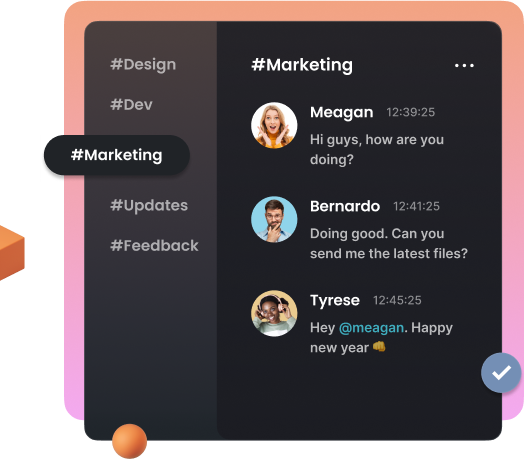
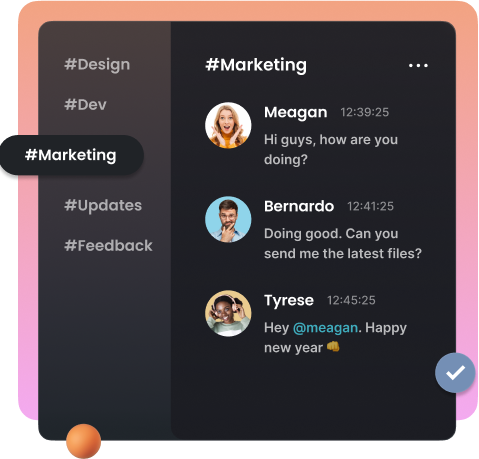
section feature

diff --git a/src/stylesheets/pages/home/_feature.scss b/src/stylesheets/pages/home/_feature.scss
@@ -1,0 +1,77 @@
+@use "../../abstracts/"as *;
+
+.feature{
+    @include flex($direction:column,$justify:center,$align:center);
+    gap: 20px;
+    text-align: center;
+    padding: 10% 0 0 0;
+    width: 100%;
+    @include tablet{
+        gap: 80px;
+    }
+    @include desktop{
+        padding-top: 3%;
+        gap: 80px;
+    }
+    &__content{
+        width: 100%;
+        @include flex($direction:column,$align:center);
+        gap: 20px;
+      &-firstline{
+        @include font($font-family:$secondary-font,$font-size:pxToRem(12),$font-weight:800,$line-height:16px);
+        @include color($color:$text-color-extra);
+        letter-spacing: 1.2px;
+        text-transform: uppercase;
+      }
+      &-secondline{
+        @include font($font-family:$third-font,$font-size:pxToRem(32),$font-weight:600,$line-height:40px);
+        @include color($color:$text-color-secondary);
+        @include tablet{
+            @include font($font-size:pxToRem(40));
+            width: 65%;
+        }
+        @include desktop{
+            @include font($font-size:pxToRem(48));
+            width: 40%;
+        }
+      }
+    }
+    &__image{
+        width: 100%;
+      @include flex($direction:column);
+      gap: 40px;
+      .featurecp:nth-child(1){
+          .featurecp__list{
+            .listcr{
+                &-child:nth-child(1){
+                    @include color($background:$active-element-color);
+                    width: 0.5rem;
+                    height: 0.5rem;
+                }
+            }
+        }
+      }
+      .featurecp:nth-child(2){
+        .featurecp__list{
+          .listcr{
+              &-child:nth-child(2){
+                  @include color($background:$active-element-color);
+                  width: 0.5rem;
+                  height: 0.5rem;
+              }
+          }
+      }
+    }
+    .featurecp:nth-child(3){
+        .featurecp__list{
+          .listcr{
+              &-child:nth-child(3){
+                  @include color($background:$active-element-color);
+                  width: 0.5rem;
+                  height: 0.5rem;
+              }
+          }
+      }
+    }
+    }
+}

diff --git a/src/stylesheets/components/_feature.scss b/src/stylesheets/components/_feature.scss
@@ -1,0 +1,79 @@
+@use "../abstracts/"as *;
+
+.featurecp{
+    width: 100%;
+    @include flex($direction:column,$justify:center,$align:center);
+    gap: 20px;
+    @include tablet{
+        @include flex($direction:row);
+    }
+    @include desktop{
+        @include flex($direction:row);
+    }
+    &__image{
+        width: 100%;
+        @include tablet{
+            width: 55%;
+        }
+        img,source{
+            width: 100%;
+        }
+    }
+    &__content{
+        width: 100%;
+        text-align: left;
+        @include flex($direction:column);
+        gap: 30px;
+        @include tablet{
+            padding: 6%;
+            width: 55%;
+            gap: 20px;
+        }
+        @include desktop{
+            padding: 6%;
+        }
+        &__image{ 
+            display: none;
+            width: 100%;
+            @include desktop{
+                display: block;
+            }
+            img{
+                width: 40%;
+            }
+        }
+        &-firsttitle{
+            @include font($font-family:$third-font,$font-size:pxToRem(20),$line-height:24px,$font-weight:600);
+            @include color($color:$text-color-secondary);
+            @include tablet{
+                @include font($font-size:pxToRem(24));
+            }
+            @include desktop{
+                @include font($font-size:pxToRem(32));
+            }
+        }
+        &-secondtitle{
+            width: 80%;
+            @include font($font-family:$secondary-font,$font-size:pxToRem(16),$font-weight:500,$line-height:24px);
+            @include color($color:$text-color-primary);
+            opacity: 0.8;
+            @include tablet{
+                width: 100%;
+            }
+        }
+        .btn__no__color{
+            max-width: fit-content;
+            padding: 3% 6%;
+            figure{
+                display: none;
+            }
+        }
+    }
+    &__list{
+        display: none;
+        @include desktop{
+            @include flex();
+            
+        }
+    }
+}

diff --git a/src/layouts/main.html b/src/layouts/main.html
@@ -69,4 +69,22 @@
             </figure>
         </div>
     </section>
+    <!--End of section HW-->
+    <!--Start of section feature-->
+    <section class="feature">
+         <div class="feature__content">
+            <p class="feature__content-firstline">AMAZING FEATURES</p>
+            <p class="feature__content-secondline">See what you can do in one app</p>
+         </div>
+         <div class="feature__image">
+            <include src="./components/feature.html" locals='{
+                "list":[{"linkimage":"fake-ui-01","linkicon":"cursor-3d","firsttitle":"Stay focused whenever, wherever","secondtitle":"We`re a growing family of 382,081 designers and makers from around the world","buttoncontent":"Watch how it work"},
+                {"linkimage":"fake-ui-02","linkicon":"speechbuble","firsttitle":"Share files at the right time","secondtitle":"We`re a growing family of 382,081 designers and makers from around the world","buttoncontent":"Get Solo Desktop"},
+                {"linkimage":"fake-ui-03","linkicon":"plane-3d","firsttitle":"Collaborate from anywhere","secondtitle":"We`re a growing family of 382,081 designers and makers from around the world","buttoncontent":"Schedule a demo"}]
+            }'>
+                
+            </include>
+         </div>
+    </section>
+    <!--End of section feature-->
 </main>

diff --git a/src/components/feature.html b/src/components/feature.html
@@ -1,0 +1,26 @@
+<each loop="item in {{ list }}">
+    <div class="featurecp">
+        <picture class="featurecp__image">
+            <source media="(min-width:1200px)" srcset="../assets/img/pic-{{ item.linkimage }}-Desktop.png" />
+            <source media="(min-width:429px)" srcset="../assets/img/pic-{{ item.linkimage }}-Tablet.png"/>
+            <img src="../assets/img/pic-{{item.linkimage }}-Mobile.png" alt="Chat"> 
+        </picture>
+        <div class="featurecp__content">
+            <figure class="featurecp__content__image">
+                <img src="../assets/icon/ic-{{ item.linkicon }}.svg" alt="icon">
+            </figure>
+            <p class="featurecp__content-firsttitle">{{ item.firsttitle }}</p>
+            <p class="featurecp__content-secondtitle">{{ item.secondtitle }}</p>
+            <include src="./components/buttonnocl.html" locals='{
+                "list":[{"linkIcon":"ic-logo","linkDesc":"Logo","content":"{{ item.buttoncontent }}"}]
+            }'>
+                
+            </include>
+        </div>
+        <div class="featurecp__list">
+            <include src="./components/listcr.html" locals='{}'>
+                
+            </include>
+        </div>
+    </div>
+</each>

diff --git a/src/components/box.html b/src/components/box.html
@@ -22,9 +22,9 @@
             </div>
 
             <picture class="image">
-                <img class="image__img" src="../assets/img/{{ item.imageLink1 }}.png" alt="{{ item.imageDesc1 }}"/>
                 <source class="image__img" media="(min-width:429px)" srcset="../assets/img/{{ item.imageLink2 }}.png" alt="{{ item.imageDesc2 }}"/>
-                <source class="image__img" media="screen and (min-width:1200px)" srcset="../assets/img/{{ item.imageLink3 }}.png" alt="{{ item.imageDesc3 }}"/>
+                <source class="image__img" media="(min-width:1200px)" srcset="../assets/img/{{ item.imageLink3 }}.png" alt="{{ item.imageDesc3 }}"/>
+                <img class="image__img" src="../assets/img/{{ item.imageLink1 }}.png" alt="{{ item.imageDesc1 }}"/>
             </picture>
         </article>
     </each>

diff --git a/src/stylesheets/components/_listcr.scss b/src/stylesheets/components/_listcr.scss
@@ -1,0 +1,13 @@
+@use "../abstracts/" as *;
+
+.listcr{
+    @include flex($direction:column,$justify:center,$align:center);
+    gap: 10px;
+    
+    &-child{
+        width: 0.3rem;
+        height: 0.3rem;
+        border-radius: 50%;
+        @include color($background:$text-color-primary);
+    }
+}

diff --git a/src/components/listcr.html b/src/components/listcr.html
@@ -1,0 +1,5 @@
+<div class="listcr">
+    <div class="listcr-child"></div>
+    <div class="listcr-child"></div>
+    <div class="listcr-child"></div>
+</div>

diff --git a/src/stylesheets/components/_index.scss b/src/stylesheets/components/_index.scss
@@ -6,3 +6,5 @@
 @forward "banner";
 @forward "text";
 @forward "step";
+@forward "listcr";
+@forward "feature";

diff --git a/src/stylesheets/pages/home/_index.scss b/src/stylesheets/pages/home/_index.scss
@@ -1,3 +1,4 @@
 @forward "main";
 @forward "together";
 @forward "HW";
+@forward "feature";

diff --git a/README.md b/README.md
@@ -8,7 +8,7 @@
 
 ## TIMELINE:
 
-- 7 days (17 Nov - 24 Nov)
+-  17200,0 days (17 Nov - 4 Dec)
 
 ## TARGET:
 
